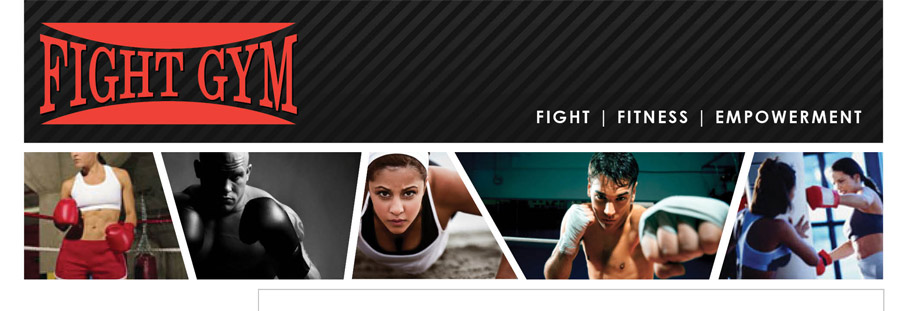
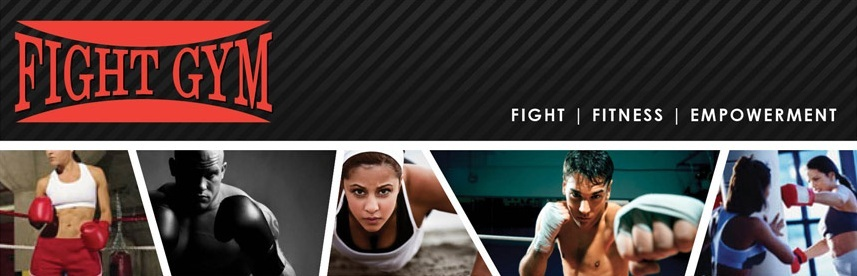
Added dynamic style and multiple facebook.

diff --git a/public/resources/js/conduct.js b/public/resources/js/conduct.js
@@ -7,19 +7,30 @@ $(document).ready(function(){
 		url: "settings/settings.xml",
 		dataType: "xml",
 		success: function(xml) {
+			$("style",xml).each(function(){
+				var styleTag = $(this)
+				if($(this).attr('background')!=""){
+					$("#container").each(function(){
+						$(this).css({"background-color":styleTag.attr('background')});
+					})
+				}
+			})
+			
 			$("image",xml).each(function(){
 				if($(this).attr('location')!=""){
-					body.append('<img src="'+$(this).attr('location')+'">');
+					body.append('<div class="panelwidth"><img src="'+$(this).attr('location')+'">');
 					if($(this).attr('stretch')=='true') {
 						$('img',body).load(function(){
 							$(this).addClass('stretch');
 							var prop = $(this).width()/$(this).height();
-							$(this).css({width:$(window).width()-35});
+							$(this).css({width:$(this).parent().width()});
 							$(this).css({height:$(this).width()/prop})
 						})
-					} 
+					}
+					body.append('</div>')
 				}
 			})
+			
 			$("panel",xml).each(function(){
 				body.append('<div class="panel"><div class="title"><a href="#">'+$(this).attr('title')+'</a></div><div class="content">'+$(this).text()+'</div></div>');
 				var panel = $(this);
@@ -41,6 +52,7 @@ $(document).ready(function(){
 					}
 				})
 			});
+			
 			$('.panel .title a',body).each(function(){
 				$(this).click(function(e){
 				e.preventDefault();
@@ -65,20 +77,29 @@ $(document).ready(function(){
 			$('footer',xml).each(function(){
 				footer=true;
 				var footerhtml = '';
+				
+				$('facebook',this).each(function(){
+					footerhtml+='<a href="'+$(this).attr('link')+'"><img src="../resources/img/facebook.gif"></a>';
+				})
 				if($('text',this).length>0)footerhtml+='<span>'+$('text',this).text()+'</span>';
-				if($('facebook',this).length>0)footerhtml+='<a href="'+$('facebook',this).attr('link')+'"><img src="../resources/img/facebook.gif"></a>';
 				if($('twitter',this).length>0)footerhtml+='<a href="'+$('twitter',this).attr('link')+'"><img src="../resources/img/twitter.png"></a>';
 				if($('phone',this).length>0)footerhtml+='<a href=\"tel:'+$('phone',this).attr('link')+'\""><img src="../resources/img/phone.png"></a>';
 				if($('email',this).length>0)footerhtml+='<a href=mailto:"'+$('email',this).attr('link')+'"><img src="../resources/img/email.png"></a>';
 				if($('map',this).length>0)footerhtml+='<a href=http://maps.google.com.au/maps?q="'+$('map',this).attr('link')+'"><img src="../resources/img/map.png"></a>';
 				body.append('<div id="footer"><div id="foot-inner">'+footerhtml+'</div></div>');
 			})
+			
+			$('app',xml).each(function(){
+				document.title = $(this).attr('title');
+			});
+			
 			Resize();
 		},
 		error:function(error){
 			alert('error in app')
 		}
 	})
+	
 	
 	$(window).resize(Resize);
 	
@@ -90,15 +111,6 @@ $(document).ready(function(){
 			$(this).css({width:$(window).width()-35});
 			$(this).css({height:$(this).width()/prop})
 		})
-		/*
-		if(footer){
-			$('#footer',body.parent()).each(function(){
-				$(this).css({width:$(window).width()-47, top:$(window).height()-50});
-			})
-			bheight-=72;
-		}*/
-		
-		//body.css('height', bheight)
 	}
 	Resize();
 })

diff --git a/public/original/index.html b/public/original/index.html
@@ -1,9 +1,8 @@
 <!DOCTYPE HTML>
 <html>
 	<head>
-		<title>Untitled Mobile App</title>
-		<script type="text/javascript" src="../resources/js/jquery-1.6.4.min.js"></script>
-		<script src="../resources/js/conduct.js" type="text/javascript"></script>
+		<script type="text/javascript" src="../resources/js/jquery-1.6.4.min.js"/>
+		<script src="../resources/js/conduct.js" type="text/javascript"/>
 		<link rel="stylesheet" href="../resources/css/style.css" type="text/css">
 		<script type="text/javascript">
 

diff --git a/public/resources/css/style.css b/public/resources/css/style.css
@@ -24,7 +24,6 @@ body{
 #container {
 	width:100%;
 	padding:10px;
-	background:url(../img/bg.png) repeat-x ;
 	background-position:left bottom;
 }
 #footer{
@@ -52,6 +51,12 @@ body{
 #footer a img {
 	border:none;
 }
+
+.panelwidth {
+	width:100%;
+	display:block;
+}
+
 .panel {
 	width:100%;
 	background:#d1d1d1;
@@ -95,7 +100,7 @@ body{
 	padding:5px 8px;
 	color:#515151;
 	font-size:13px;
-	width:100%;
+	width:90%;
 	text-align:left;
 }
 

diff --git a/public/bodhi/index.html b/public/bodhi/index.html
@@ -1,8 +1,6 @@
 <!DOCTYPE HTML>
 <html>
 	<head>
-		<title>Bodhi Restaurant</title>
-		<script src="../resources/js/analytics.js" type="text/javascript"></script>
 		<script type="text/javascript" src="../resources/js/jquery-1.6.4.min.js"></script>
 		<script src="../resources/js/conduct.js" type="text/javascript"></script>
 		<link rel="stylesheet" href="../resources/css/style.css" type="text/css">

diff --git a/public/fightGym/index.html b/public/fightGym/index.html
@@ -1,7 +1,6 @@
 <!DOCTYPE HTML>
 <html>
 	<head>
-		<title>Fight Gym</title>
 		<script type="text/javascript" src="../resources/js/jquery-1.6.4.min.js"></script>
 		<script src="../resources/js/conduct.js" type="text/javascript"></script>
 		<link rel="stylesheet" href="../resources/css/style.css" type="text/css">
